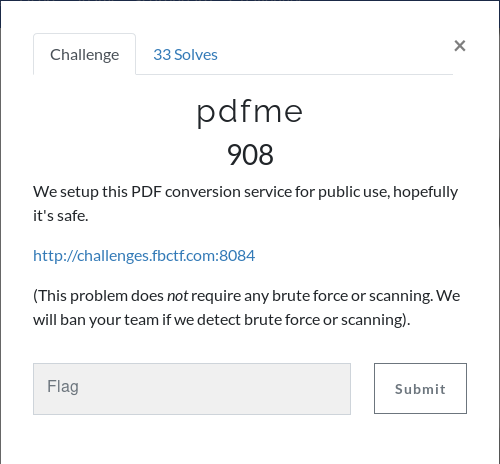
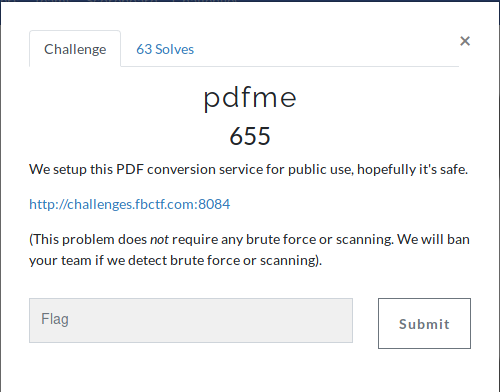
Changes; - Small changes to Facebook CTF

diff --git a/README.md b/README.md
@@ -7,7 +7,7 @@ https://ctftime.org/team/68942
 
 | Pos |  Name                 |       Write-up                                 |    CTFtime Link               | 
 |----:|-----------------------|------------------------------------------------|-------------------------------|
-| X   | Facebook CTF          | [Write up](./2019/FacebookCTF/README.md)       | https://ctftime.org/event/781 |
+| 190 | Facebook CTF          | [Write up](./2019/FacebookCTF/README.md)       | https://ctftime.org/event/781 |
 | 35  | SwampCTF              | [Write up](./2019/SwampCTF/README.md)          | https://ctftime.org/event/779 |
 | 108 | ENCRYPT CTF           | [Write up](./2019/ENCRYPT/README.md)           | https://ctftime.org/event/771 |
 | 68  | b00t2root '19         | [Write up](./2019/Boot2Root/README.md)         | https://ctftime.org/event/780 |

diff --git a/2019/FacebookCTF/README.md b/2019/FacebookCTF/README.md
@@ -6,4 +6,4 @@
 
 [```products manager - Points: 100```](./products_manager/README.md)
 
-[```pdfme - Points: X```](./pdfme/README.md)
+[```pdfme - Points: 655```](./pdfme/README.md)
